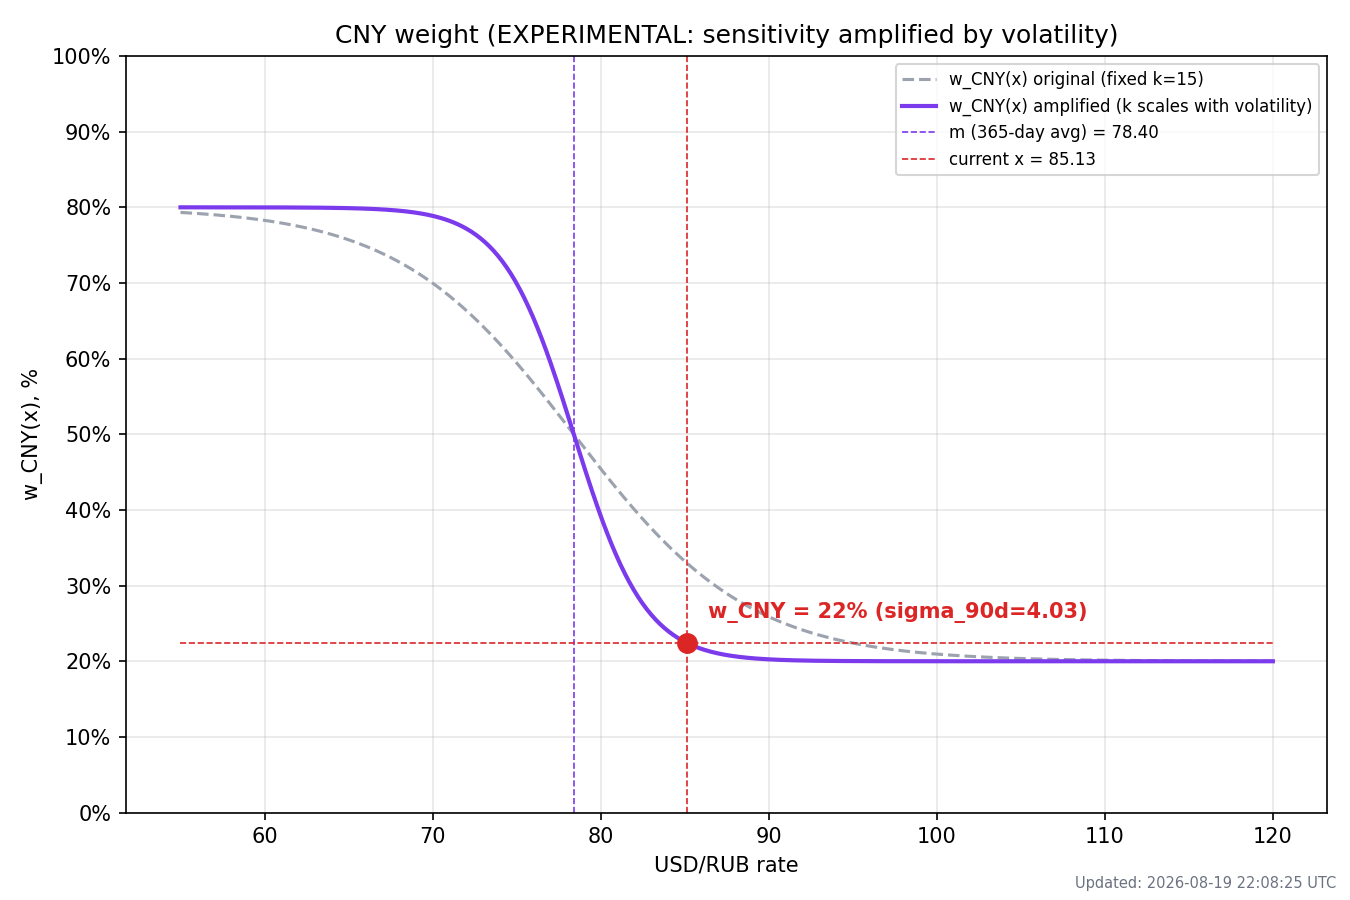
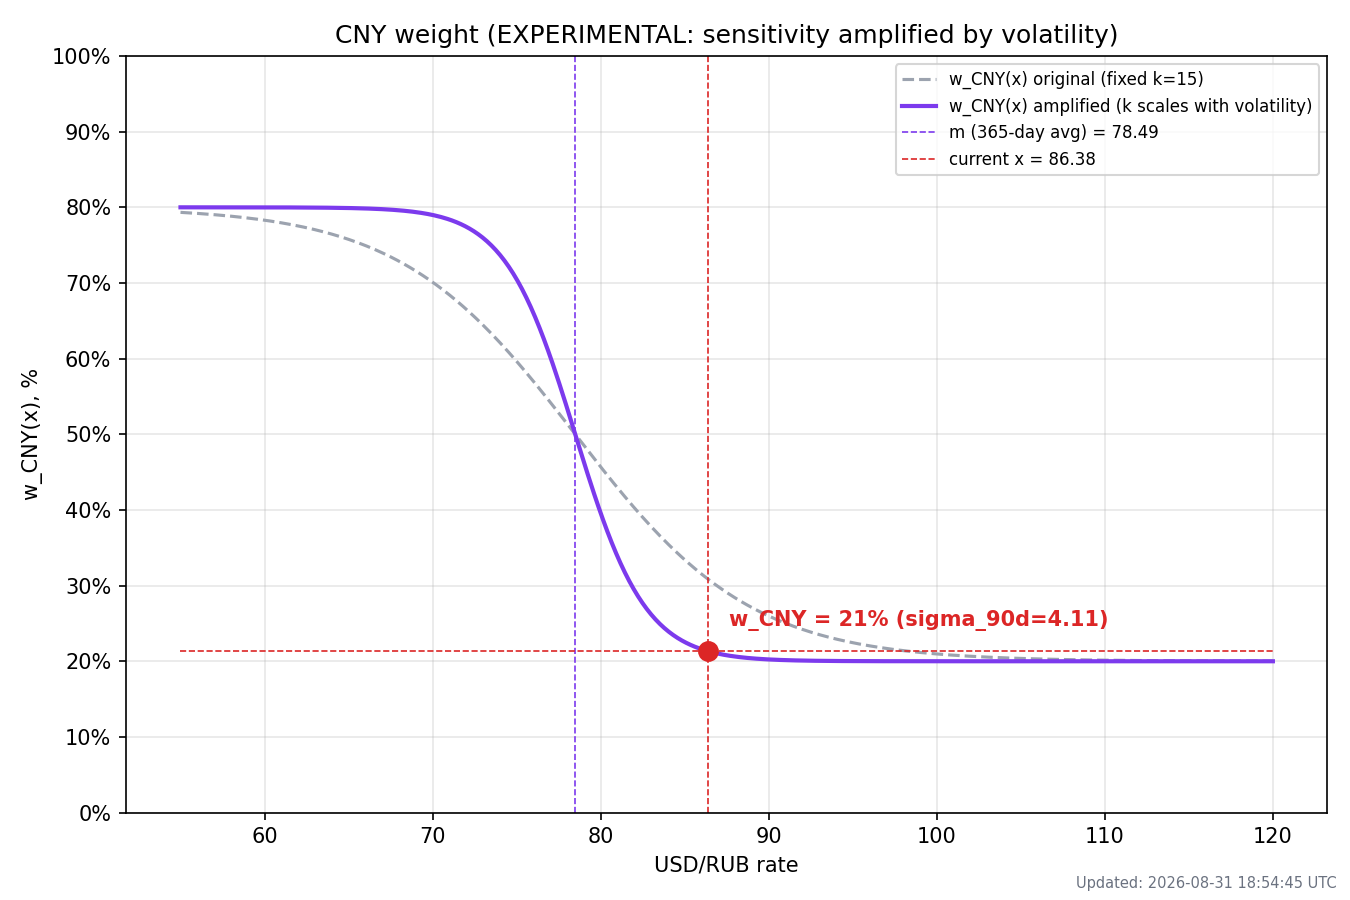
update

diff --git a/usd_rub_tracker/REPORT.md b/usd_rub_tracker/REPORT.md
@@ -1,12 +1,12 @@
 # USD/RUB Weight Report
 
-**Date:** 2026-08-30
-**Updated:** 2026-08-30 16:35:50 UTC
+**Date:** 2026-08-31
+**Updated:** 2026-08-31 18:54:45 UTC
 
-- Current USD/RUB rate (x): **85.6007**
+- Current USD/RUB rate (x): **86.3793**
 - 365-day average USD/RUB rate (m): **78.4887**
-- w_CNY(x): **32%**
-- w_RUB(x): **68%**
+- w_CNY(x): **31%**
+- w_RUB(x): **69%**
 
 ![Sigmoid weight curve](charts/sigmoid.png)
 
